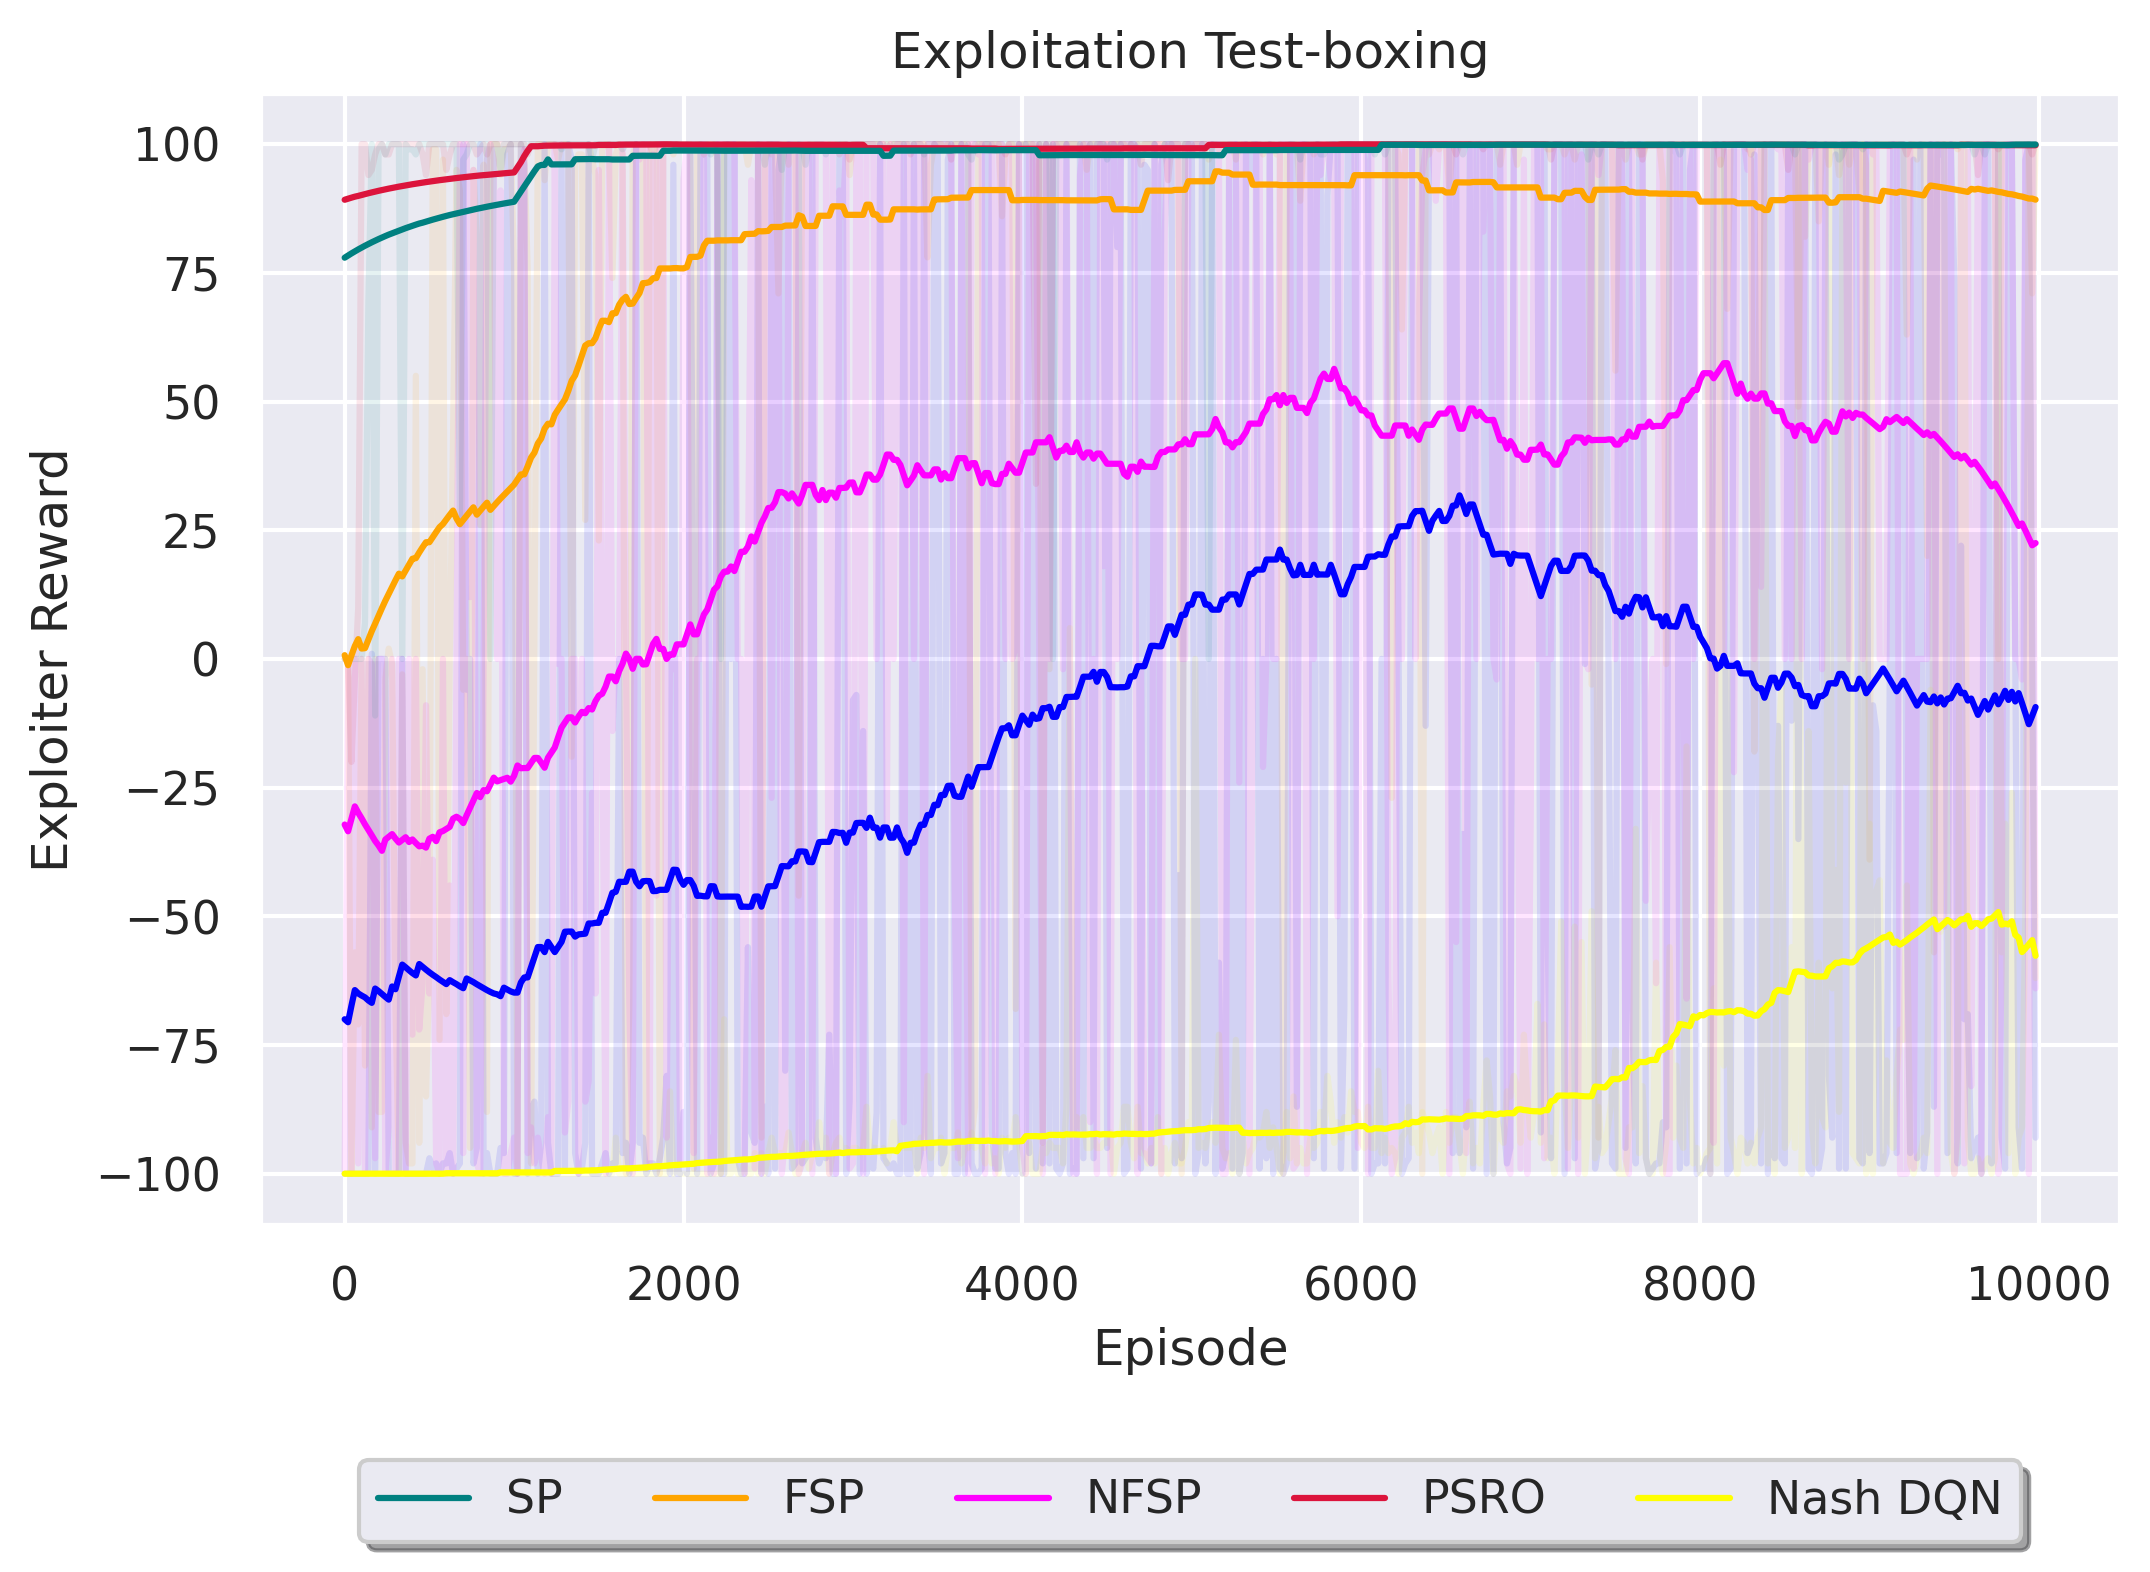
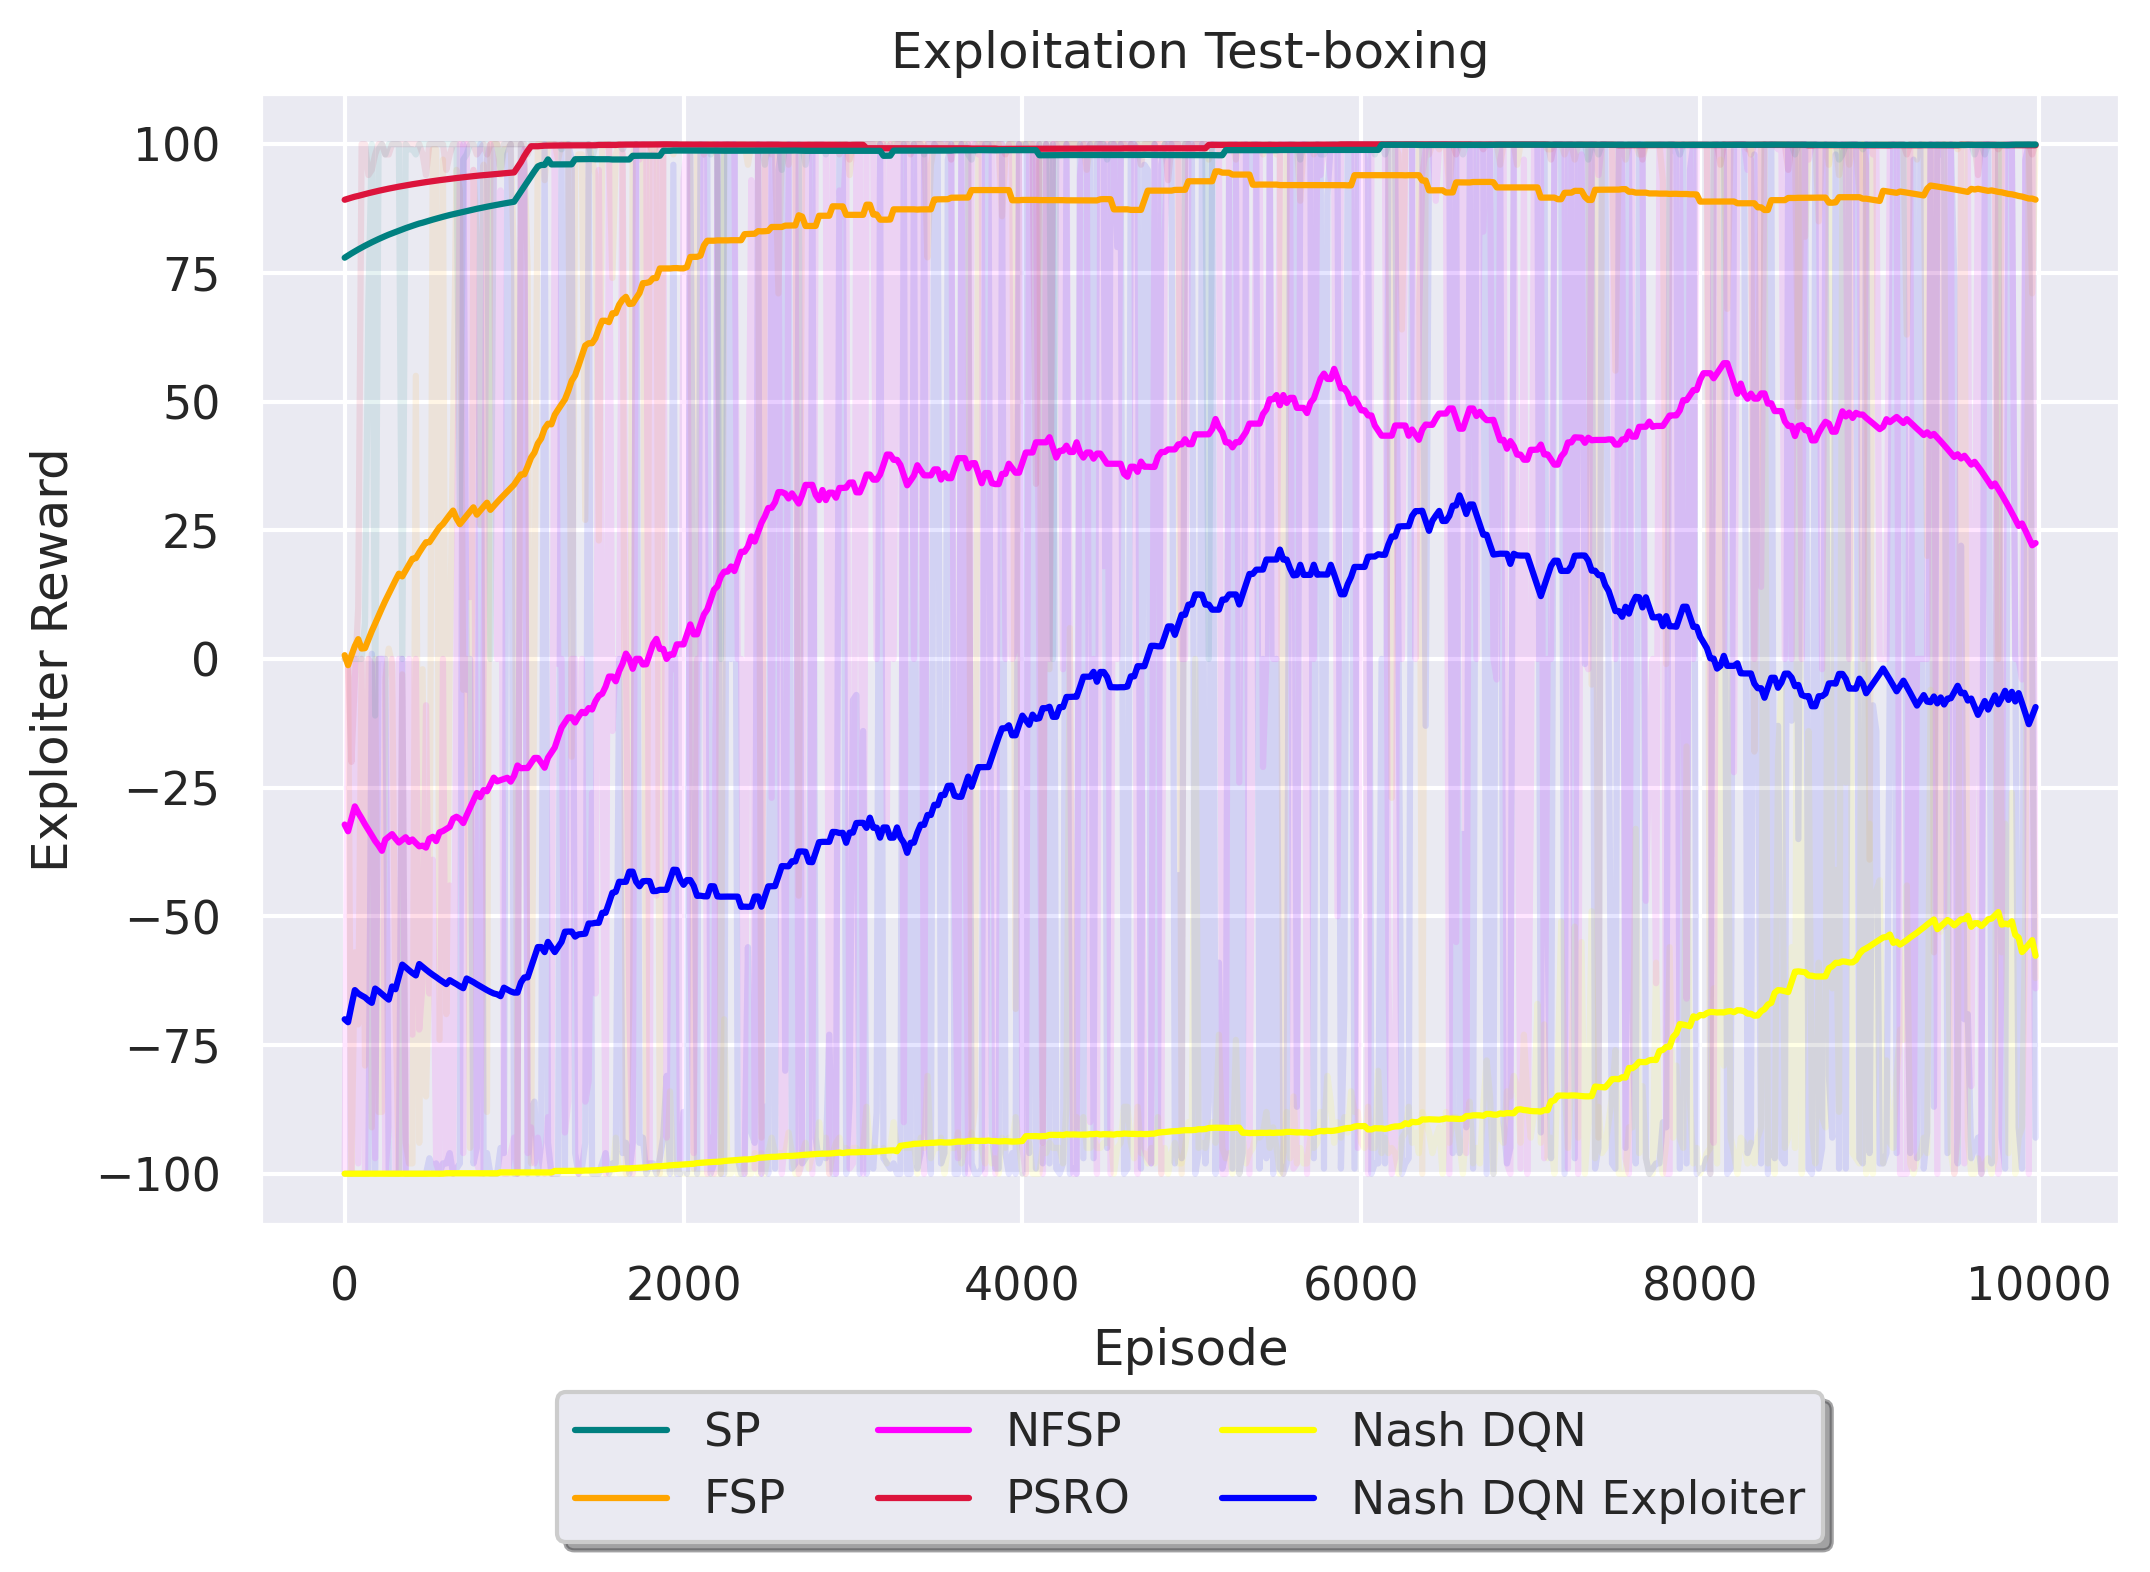
update confs

Changed region(s): [[0.1558, 0.8728, 0.966, 0.9975]]

diff --git a/generate_confs_atari.py b/generate_confs_atari.py
@@ -23,7 +23,7 @@ self_play_method_marl_specs = {
 selfplay_based_methods = {'selfplay', 'selfplay2', 'fictitious_selfplay', \
                             'fictitious_selfplay2', 'nxdo', 'nxdo2'}
 
-large_nets_envs = {'tennis_v2'}
+# large_nets_envs = {'tennis_v2'}
 large_nets_envs = {}
 
 
@@ -134,6 +134,12 @@ large_ppo_net_architecture = {
 
 }
 
+standard_net_architecture = {
+    'hidden_dim_list': [128, 128, 128, 128],
+    'hidden_activation': 'ReLU',
+    'output_activation': False,
+}
+
 large_net_architecture = {
     'hidden_dim_list': [256, 256, 256, 256],
     'hidden_activation': 'ReLU',
@@ -165,6 +171,13 @@ for game in two_player_zero_sum_games:
         conf['agent_args']['algorithm_spec']['eps_decay'] = 10*conf['train_args']['max_episodes']  # decay faster
         conf['agent_args']['algorithm_spec']['multi_step'] = 1
 
+        # some game specific confs
+        if game in large_nets_envs:  # it requires a larger net
+            if method == 'nash_ppo':
+                conf['train_args']['net_architecture'] = large_ppo_net_architecture
+            else:
+                conf['train_args']['net_architecture'] = large_net_architecture
+
         # some method specific confs
         if method in ['nash_dqn', 'nash_dqn_exploiter', 'nash_dqn_factorized']:
             conf['env_args']['num_envs'] = 1
@@ -189,14 +202,13 @@ for game in two_player_zero_sum_games:
             conf['train_args']['net_architecture'] = ppo_net_architecture
 
         elif method == 'nfsp':
-            conf['train_args']['train_start_frame'] = train_start_frame[game]
-
-        # some game specific confs
-        if game in large_nets_envs:  # it requires a larger net
-            if method == 'nash_ppo':
-                conf['train_args']['net_architecture'] = large_ppo_net_architecture
+            conf['agent_args']['algorithm'] = 'NFSP'
+            if game in large_nets_envs:
+                conf['train_args']['net_architecture']['policy'] = large_net_architecture
             else:
-                conf['train_args']['net_architecture'] = large_net_architecture
+                conf['train_args']['net_architecture']['policy'] = standard_net_architecture
+                conf['train_args']['net_architecture']['policy']['output_activation'] = 'Softmax'
+            conf['train_args']['train_start_frame'] = train_start_frame[game]
 
         output_path = f"mars/confs/{game_type}/{game}/{game_type}_{game}_{method}.yaml"
         with open(output_path, 'w') as outfile:

diff --git a/exploit.py b/exploit.py
@@ -8,7 +8,7 @@ from mars.utils.func import get_general_args, get_model_path, get_exploiter
 game_type = ['pettingzoo', 'slimevolley'][0]
 game = ['boxing_v1', 'surround_v1', 'combat_plane_v1', 'pong_v2', 'tennis_v2', \
     'combat_tank_v1', 'ice_hockey_v1', 'double_dunk_v2', 'SlimeVolley-v0'][0]
-method = ['selfplay2', 'fictitious_selfplay2', 'nash_dqn', 'nash_dqn_exploiter', 'nash_dqn_factorized', 'nash_ppo', 'nxdo2'][2]
+method = ['selfplay2', 'fictitious_selfplay2', 'nash_dqn', 'nash_dqn_exploiter', 'nash_dqn_factorized', 'nash_ppo', 'nxdo2', 'nfsp'][2]
 
 args = get_general_args(game_type+'_'+game, method)
 args.multiprocess = False
@@ -21,7 +21,7 @@ args.test = False
 args.exploit = True
 args.render = True
 args.device = 'cpu'
-load_id = '20220427_1507' # 20220329_0248
+load_id = '20220429_0152' # 20220427_1507
 folder = f'data/model/{load_id}/{game_type}_{game}_{method}/'
 # folder = f'data/model/20211205_2243/{game_type}_{game}_{method}/'
 
@@ -38,7 +38,7 @@ trained_model = eval(args.algorithm)(env, args)
 ### Load exploiter with specified args (just change the previous args)
 # args.net_architecture['hidden_dim_list'] = [64, 64, 64, 64]
 exploiter, exploitation_args = get_exploiter('DQN', env, args)
-path = f'data/model/{load_id}_exploit_first_1/{game_type}_{game}_{method}/0_1'
+path = f'data/model/{load_id}_exploit_second_2/{game_type}_{game}_{method}/2000_0'
 print(f'load exploiter model from: {path}')
 exploiter.load_model(path)
 

diff --git a/train.py b/train.py
@@ -11,11 +11,11 @@ game_type = ['pettingzoo', 'slimevolley'][0]
 
 game = ['boxing_v1', 'surround_v1', 'combat_plane_v1', \
         'combat_tank_v1', 'pong_v2', 'tennis_v2', \
-        'ice_hockey_v1', 'double_dunk_v2', 'SlimeVolley-v0'][4]
+        'ice_hockey_v1', 'double_dunk_v2', 'SlimeVolley-v0'][0]
 
 method = ['selfplay', 'selfplay2', 'fictitious_selfplay', \
             'fictitious_selfplay2', 'nash_dqn', 'nash_dqn_exploiter', \
-            'nash_dqn_factorized', 'nfsp', 'nxdo2', 'nash_ppo'][-1] 
+            'nash_dqn_factorized', 'nfsp', 'nxdo2', 'nash_ppo'][-3] 
 
 args = get_general_args(game_type+'_'+game, method)
 args.multiprocess = False
@@ -31,6 +31,7 @@ print(env)
 ### Specify models for each agent     
 model1 = eval(args.algorithm)(env, args)
 model2 = eval(args.algorithm)(env, args)
+print(model1, model2)
 
 model = MultiAgent(env, [model1, model2], args)
 

diff --git a/generate_confs_slimevolley.py b/generate_confs_slimevolley.py
@@ -75,6 +75,12 @@ ppo_net_architecture = {
 
 }
 
+standard_net_architecture = {
+    'hidden_dim_list': [128, 128, 128],
+    'hidden_activation': 'ReLU',
+    'output_activation': False,
+}
+
 
 # creat folders for holding confs
 for game in games:
@@ -123,6 +129,9 @@ for game in games:
             conf['train_args']['net_architecture'] = ppo_net_architecture
 
         elif method == 'nfsp':
+            conf['agent_args']['algorithm'] = 'NFSP'
+            conf['train_args']['net_architecture']['policy'] = standard_net_architecture
+            conf['train_args']['net_architecture']['policy']['output_activation'] = 'Softmax'
             conf['train_args']['train_start_frame'] = train_start_frame[game]
 
         output_path = f"mars/confs/{game_type}/{game}/{game_type}_{game}_{method}.yaml"

diff --git a/mars/rl/agents/multiagent.py b/mars/rl/agents/multiagent.py
@@ -115,7 +115,9 @@ class MultiAgent(Agent):
             # 2. exploit:
             # not learnable agent means model to be exploited;
             # both of the above cases should have greedy action.
-            for i in self.not_learnable_list:
+            # for i in self.not_learnable_list:
+            #     greedy_list[i] = True
+            for i in range(2):
                 greedy_list[i] = True
 
         return greedy_list
